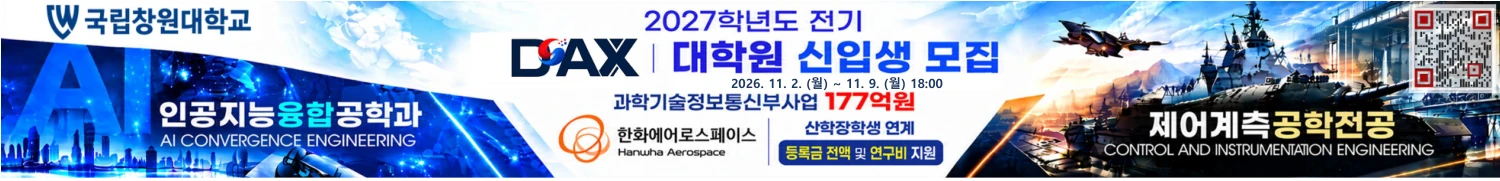
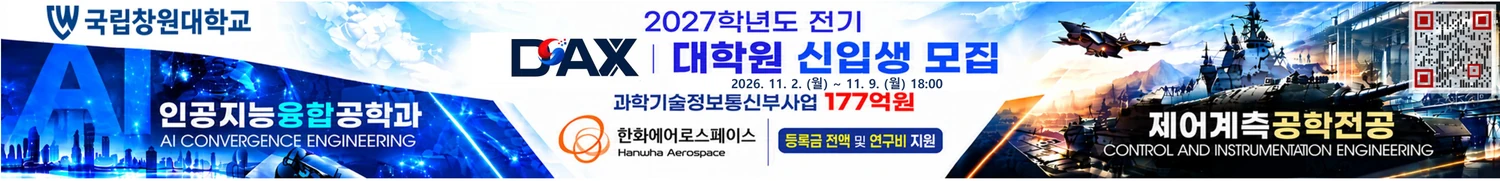
배너 그림에서 산학장학생 연계 문구 삭제, 모집 학과에 소속 과정 표기

diff --git a/index.html b/index.html
@@ -378,7 +378,7 @@
       <h3>2027학년도 전기 신입생 모집 <span class="notice-dday" data-dday hidden></span></h3>
       <dl class="notice-info">
         <div><dt>원서 접수</dt><dd><b>2026. 11. 2.(월) ~ 11. 9.(월) 18:00</b></dd></div>
-        <div><dt>모집 학과</dt><dd>인공지능융합공학과(운용혁신 AX), 제어계측공학전공(제조혁신 AX)</dd></div>
+        <div><dt>모집 학과</dt><dd>인공지능융합공학과 <span class="nw">(일반대학원 학과간협동과정)</span><br>제어계측공학전공 <span class="nw">(일반대학원 메카트로닉스공학부)</span></dd></div>
         <div><dt>지원</dt><dd>등록금 전액 및 연구비 지원</dd></div>
       </dl>
       <p>지원 자격과 제출 서류는 국립창원대학교 대학원 모집요강을 따릅니다. 궁금한 점은 아래 <a href="#contact">문의처</a>로 연락해 주세요. 학부생이라면 연구실 인턴십, 캡스톤디자인, 학부연구생으로 먼저 참여할 수도 있습니다.</p>
@@ -640,7 +640,7 @@
       <p class="recruit-dday" data-dday hidden></p>
       <dl class="recruit-info">
         <div><dt>원서 접수</dt><dd>2026. 11. 2.(월) ~ 11. 9.(월) 18:00</dd></div>
-        <div><dt>모집 학과</dt><dd>인공지능융합공학과 <small>운용혁신 AX</small><br>제어계측공학전공 <small>제조혁신 AX</small></dd></div>
+        <div><dt>모집 학과</dt><dd>인공지능융합공학과 <small class="nw">(일반대학원 학과간협동과정)</small><br>제어계측공학전공 <small class="nw">(일반대학원 메카트로닉스공학부)</small></dd></div>
         <div><dt>지원</dt><dd>등록금 전액 및 연구비 지원</dd></div>
         <div><dt>사업</dt><dd>과학기술정보통신부 AX대학원 사업 177억 원</dd></div>
       </dl>
